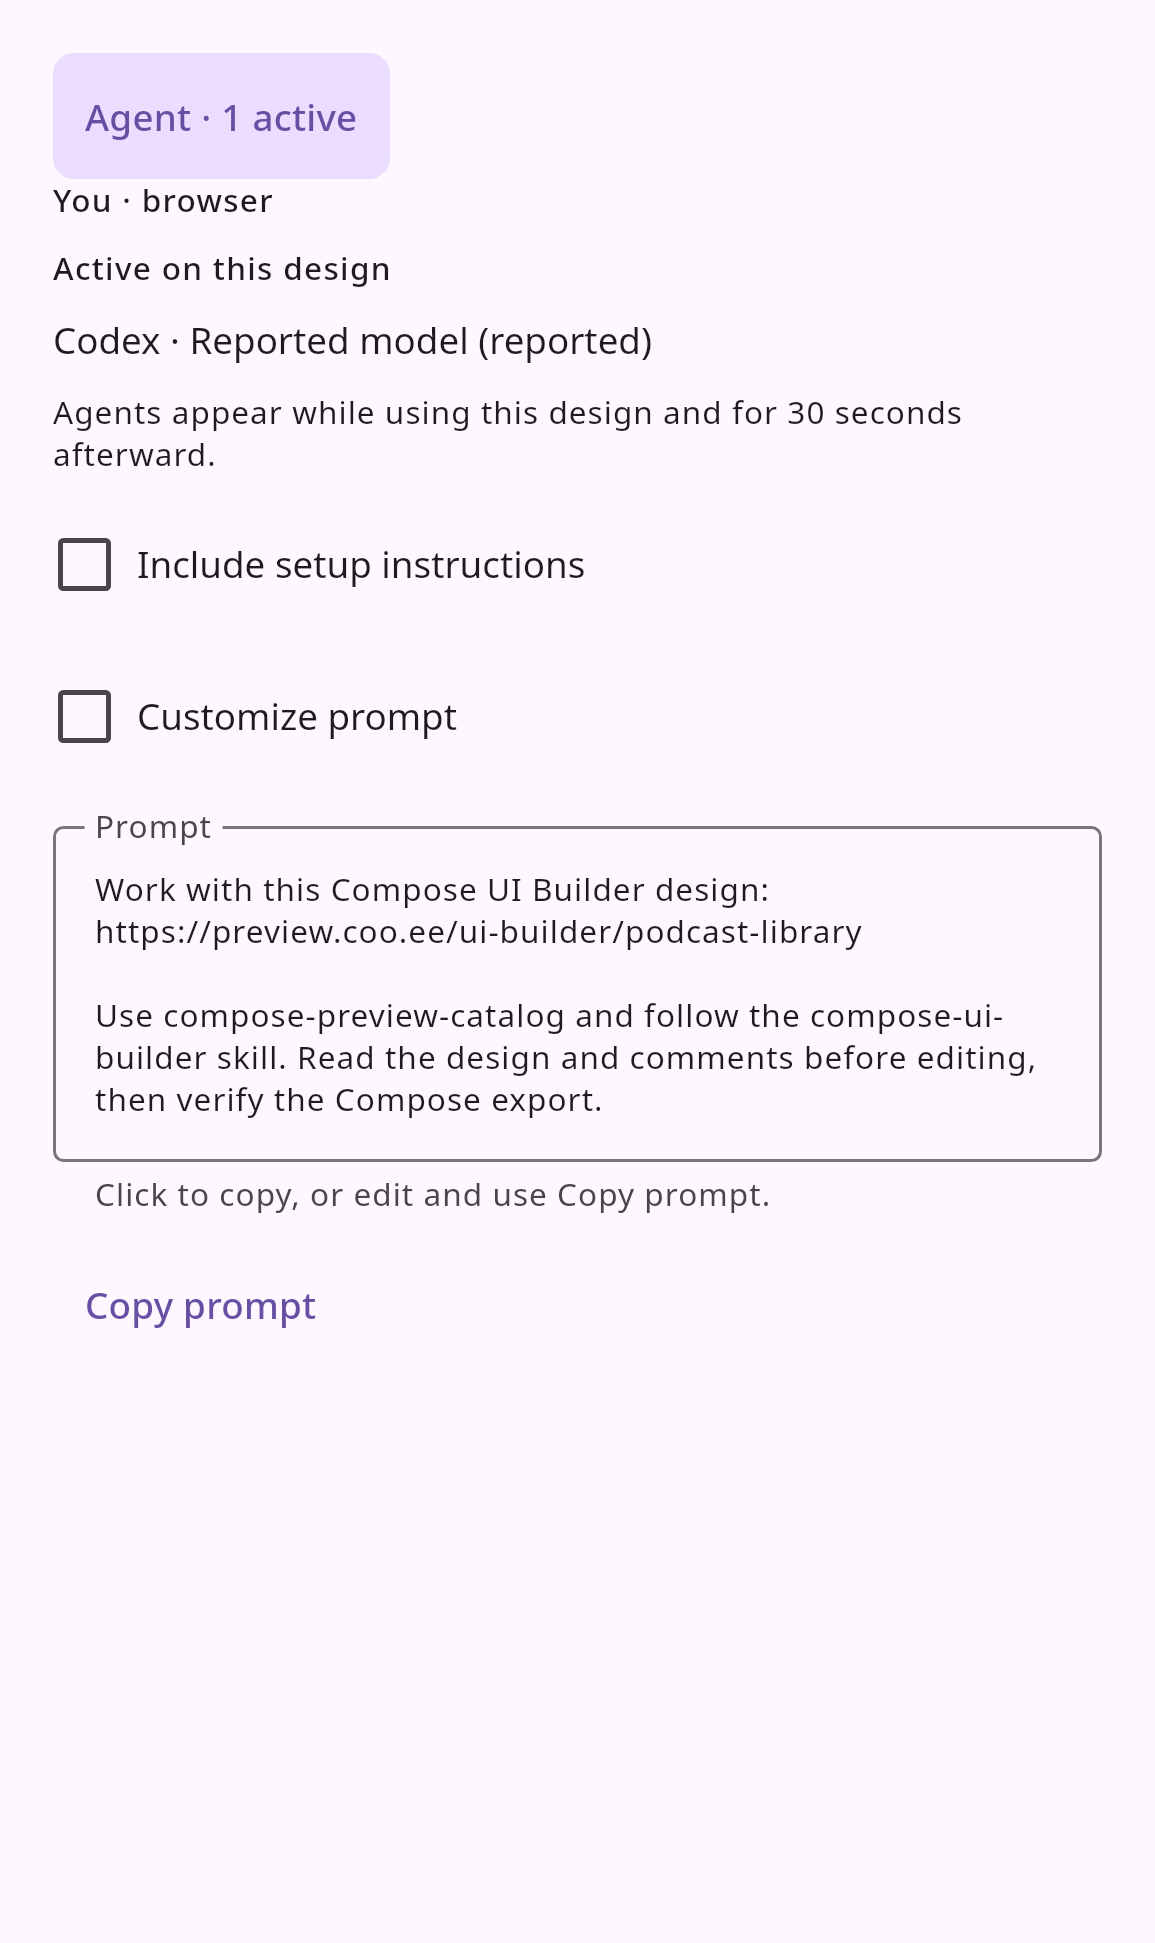
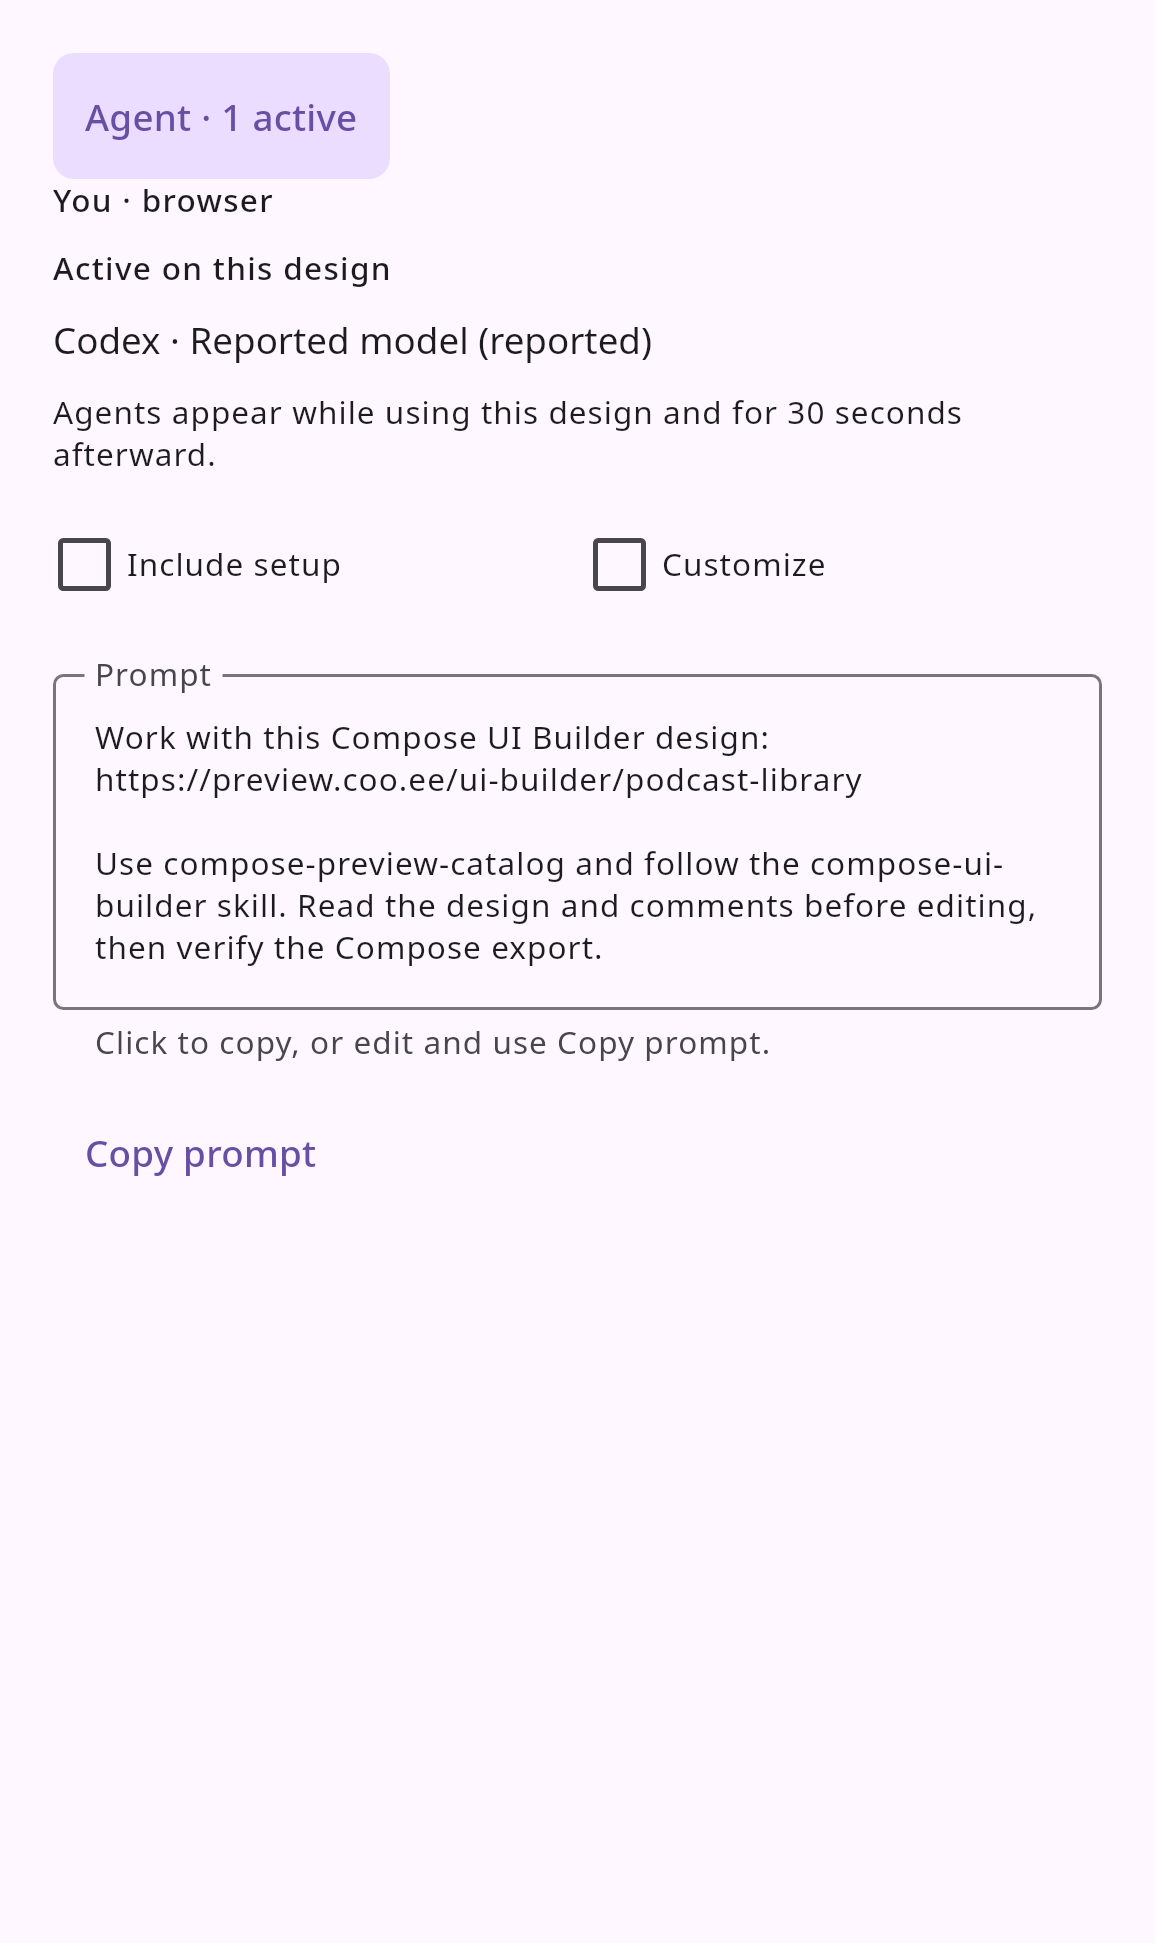
fix: keep agent prompt options on one row

diff --git a/ui-builder/src/commonMain/kotlin/ee/schimke/composeai/uibuilder/editor/UiBuilderAgentPanel.kt b/ui-builder/src/commonMain/kotlin/ee/schimke/composeai/uibuilder/editor/UiBuilderAgentPanel.kt
@@ -135,33 +135,35 @@ internal fun AgentPromptContents(host: UiBuilderAgentHost, onNotice: (String) ->
         )
       }
     }
-    Row(
-      Modifier.fillMaxWidth()
-        .heightIn(min = 48.dp)
-        .toggleable(
-          value = includeSetup,
-          role = Role.Checkbox,
-          onValueChange = { draft = draft.copy(connectedBefore = !it) },
-        ),
-      verticalAlignment = Alignment.CenterVertically,
-      horizontalArrangement = Arrangement.spacedBy(8.dp),
-    ) {
-      Checkbox(checked = includeSetup, onCheckedChange = null)
-      Text("Include setup instructions")
-    }
-    Row(
-      Modifier.fillMaxWidth()
-        .heightIn(min = 48.dp)
-        .toggleable(
-          value = customizePrompt,
-          role = Role.Checkbox,
-          onValueChange = { customizePrompt = it },
-        ),
-      verticalAlignment = Alignment.CenterVertically,
-      horizontalArrangement = Arrangement.spacedBy(8.dp),
-    ) {
-      Checkbox(checked = customizePrompt, onCheckedChange = null)
-      Text("Customize prompt")
+    Row(Modifier.fillMaxWidth(), horizontalArrangement = Arrangement.spacedBy(8.dp)) {
+      Row(
+        Modifier.weight(1f)
+          .heightIn(min = 48.dp)
+          .toggleable(
+            value = includeSetup,
+            role = Role.Checkbox,
+            onValueChange = { draft = draft.copy(connectedBefore = !it) },
+          ),
+        verticalAlignment = Alignment.CenterVertically,
+        horizontalArrangement = Arrangement.spacedBy(4.dp),
+      ) {
+        Checkbox(checked = includeSetup, onCheckedChange = null)
+        Text("Include setup", style = MaterialTheme.typography.bodySmall)
+      }
+      Row(
+        Modifier.weight(1f)
+          .heightIn(min = 48.dp)
+          .toggleable(
+            value = customizePrompt,
+            role = Role.Checkbox,
+            onValueChange = { customizePrompt = it },
+          ),
+        verticalAlignment = Alignment.CenterVertically,
+        horizontalArrangement = Arrangement.spacedBy(4.dp),
+      ) {
+        Checkbox(checked = customizePrompt, onCheckedChange = null)
+        Text("Customize", style = MaterialTheme.typography.bodySmall)
+      }
     }
     if (customizePrompt) {
       OutlinedTextField(

diff --git a/ui-builder/src/jvmTest/kotlin/ee/schimke/composeai/uibuilder/AgentPromptContentsTest.kt b/ui-builder/src/jvmTest/kotlin/ee/schimke/composeai/uibuilder/AgentPromptContentsTest.kt
@@ -62,19 +62,19 @@ class AgentPromptContentsTest {
   fun `customization survives collapsing and setup has one remembered choice`() = runComposeUiTest {
     val host = Host()
     setContent { MaterialTheme { AgentPromptContents(host) {} } }
-    onNodeWithText("Customize prompt").performClick()
+    onNodeWithText("Customize").performClick()
     onNodeWithText("Instructions for this design")
       .performScrollTo()
       .performTextReplacement("Use purple")
-    onNodeWithText("Customize prompt").performScrollTo().performClick()
+    onNodeWithText("Customize").performScrollTo().performClick()
     onNodeWithText("Instructions for this design").assertDoesNotExist()
-    onNodeWithText("Include setup instructions").performClick()
+    onNodeWithText("Include setup").performClick()
     onNodeWithText("Copy prompt").performScrollTo().performClick()
     waitForIdle()
     assertEquals("Design prompt; setup=true; Use purple", host.copied)
     assertFalse(host.preferences.connectedBefore)
     assertEquals("Use purple", host.preferences.documentInstructions)
-    onNodeWithText("Include setup instructions").performScrollTo().performClick()
+    onNodeWithText("Include setup").performScrollTo().performClick()
     onNodeWithText("Copy prompt").performScrollTo().performClick()
     waitForIdle()
     assertTrue(host.preferences.connectedBefore)
